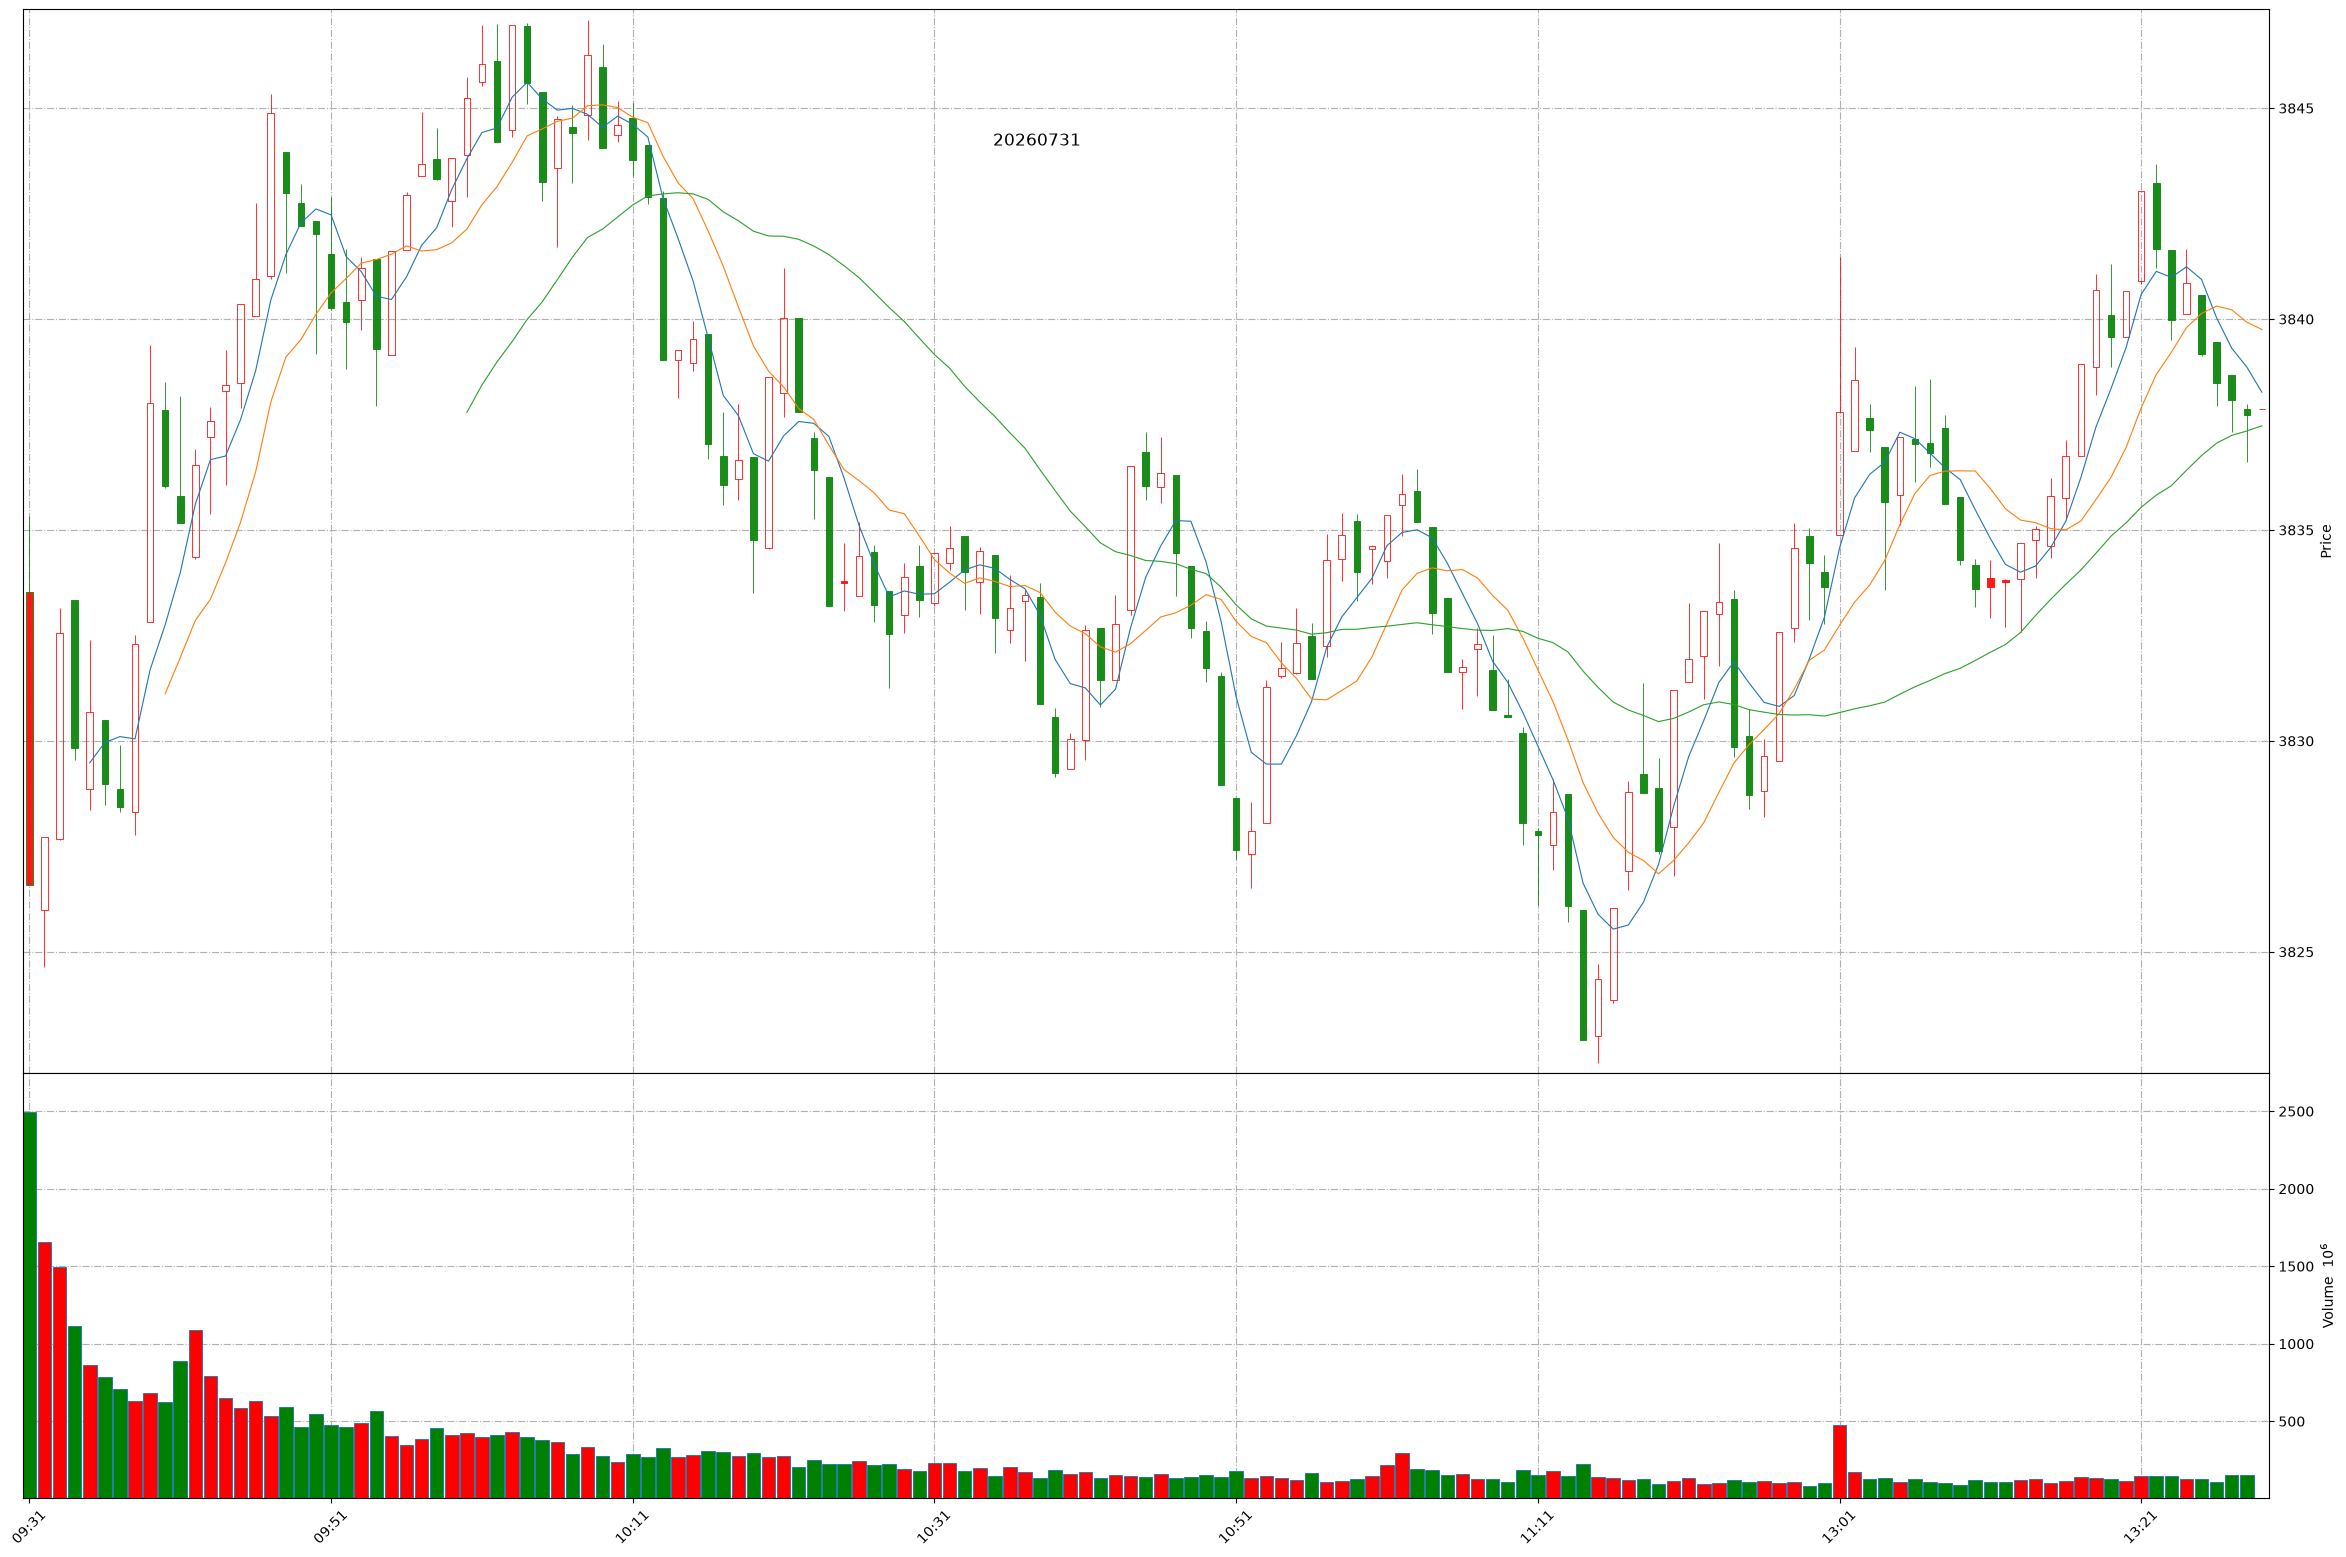
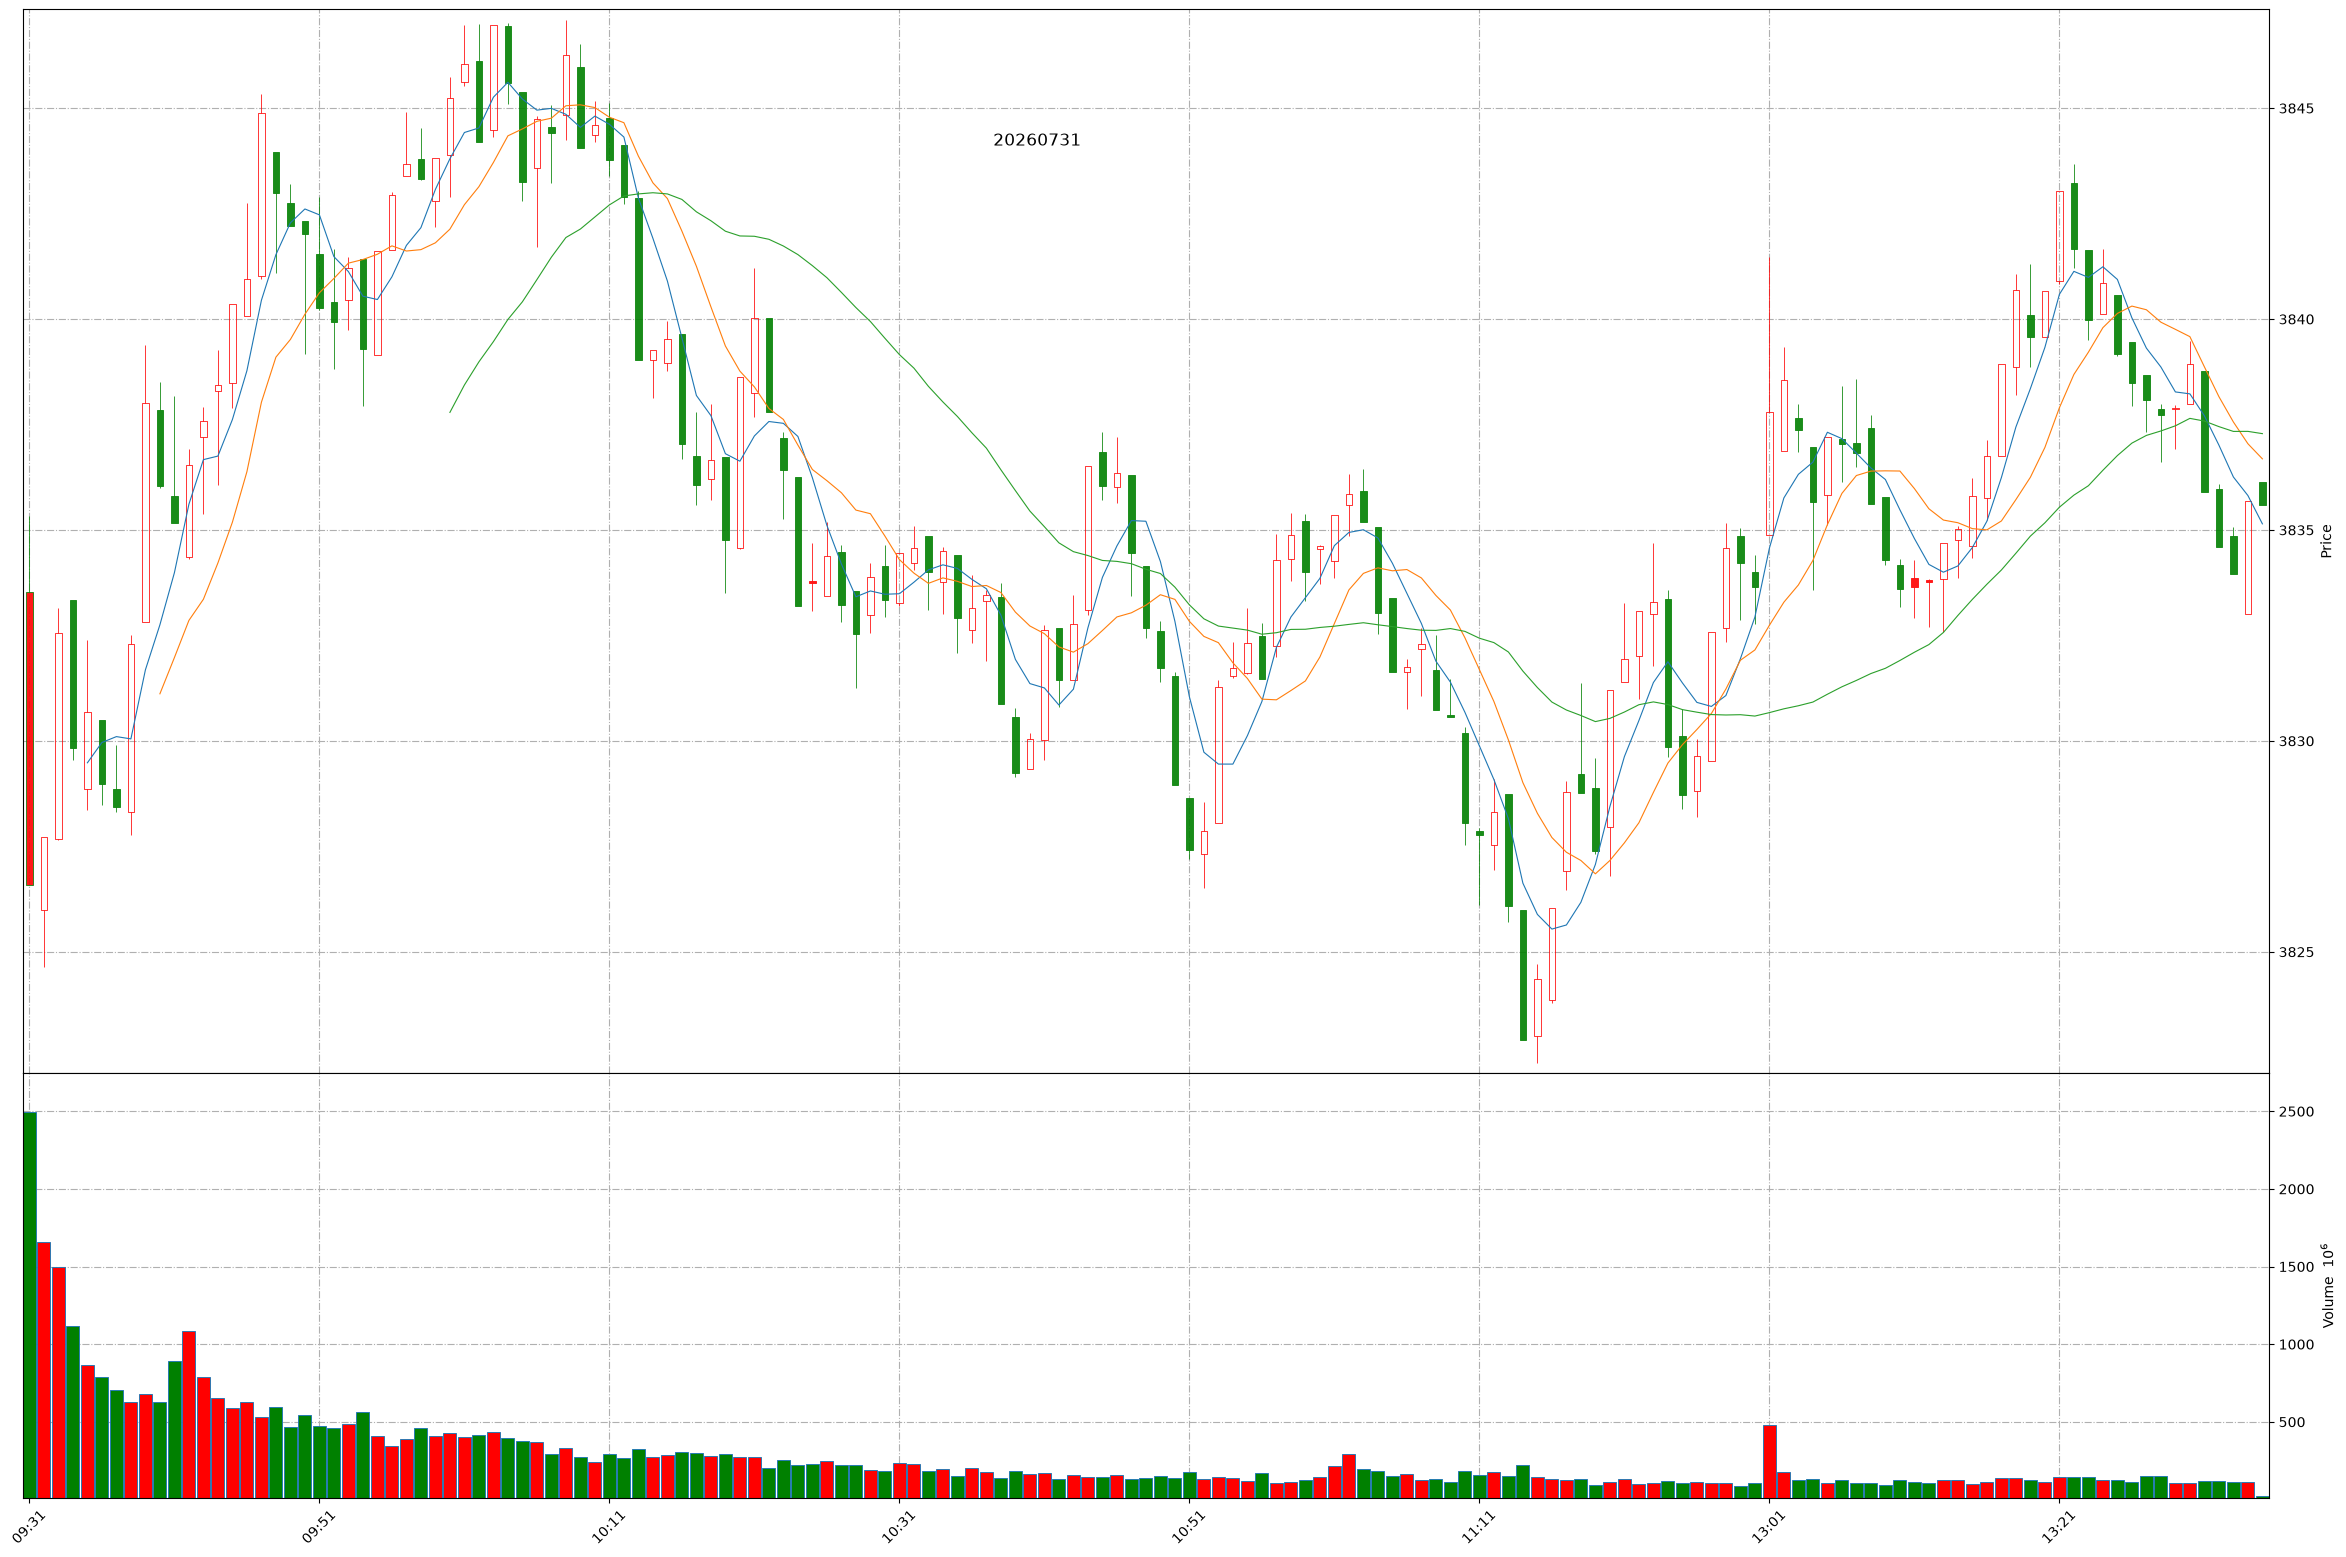
Github action update at 2026-07-31 13:34:40.

diff --git a/README.md b/README.md
@@ -1,11 +1,11 @@
 
 # Daily-A-share-market-quotes 每日 A 股指数（5min 更新）- 20260731
 
-### 上证指数 20260731 13:28
+### 上证指数 20260731 13:34
 ![](./fig/2026/7/20260731-sh000001.png)
 
-### 深证成指 20260731 13:28
+### 深证成指 20260731 13:34
 ![](./fig/2026/7/20260731-sz399001.png)
 
-### 北证50 20260731 13:28
+### 北证50 20260731 13:34
 ![](./fig/2026/7/20260731-bj899050.png)
